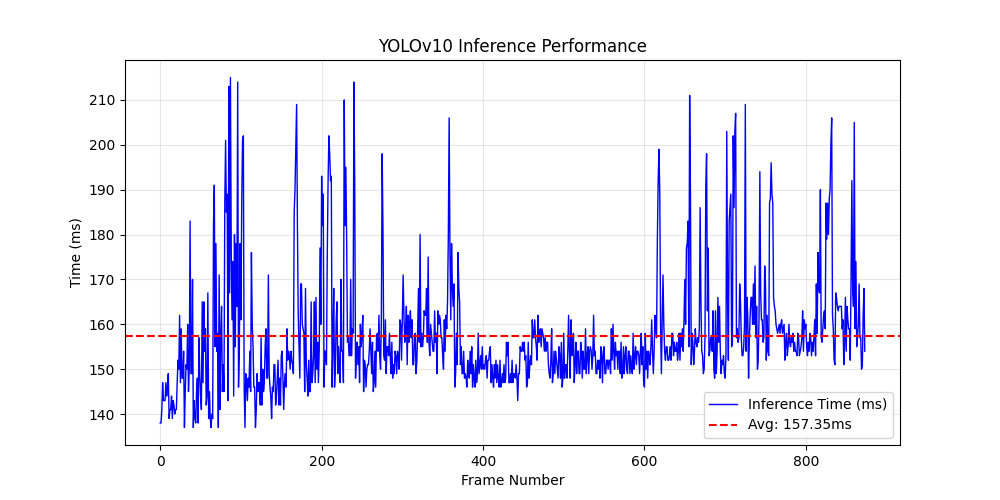
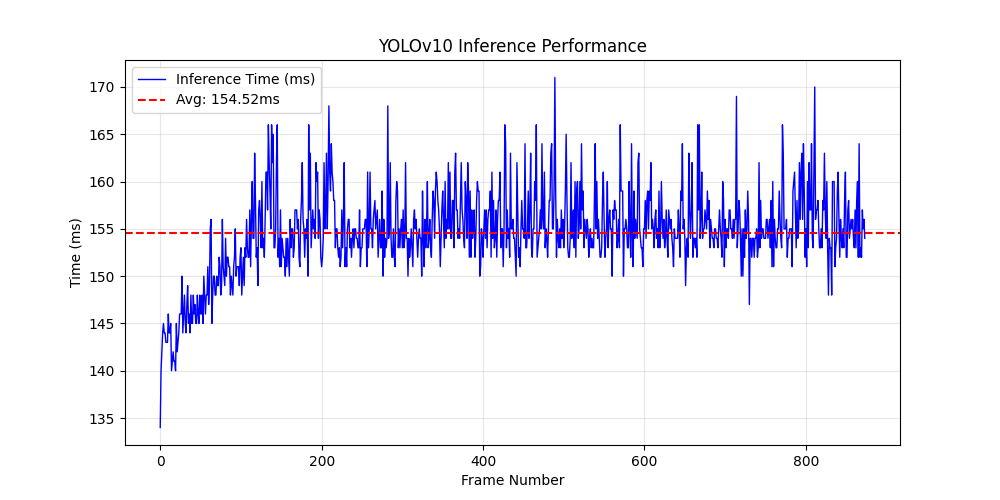
enhanced readme

diff --git a/readme.md b/readme.md
@@ -52,6 +52,15 @@ pyenv install 3.10.14
 sudo apt install -y python3-venv
 ```
 
+---
+
+## ⚙️ How to run
+
+```bash
+./run.sh --video input.mp4 --calib calib.json --gpu --kalman
+```
+
+
 
 ---
 
@@ -327,7 +336,38 @@ Z (Up)          | 0.0101     | 0.0052     | 48.6%
 
 ## Question 3 - Part D: Edge deployment notes (Jetson Orin NX)
 
-TBC.
+This section outlines the architectural migration of the pipeline from a fixed-camera workstation to a **Jetson Orin NX** companion computer mounted on a moving UAV for real-time trajectory tracking.
+
+### 1. Model Quantization Strategy (NVIDIA TensorRT)
+To achieve real-time performance on the edge, we bypass general-purpose inference engines in favor of **TensorRT**.
+
+* **Optimization Path:** Since Jetson Orin NX utilizes NVIDIA’s Ampere architecture, we utilize **FP16 (Half Precision)** as the primary target. While INT8 offers higher throughput, FP16 provides the best balance of "mAP preservation" and speed without requiring the complex calibration datasets needed for INT8.
+* **Engine vs. RKNN:** We strictly utilize **TensorRT**. RKNN is specific to Rockchip NPUs (like the RV1126 or RK3588); for NVIDIA hardware, TensorRT provides deep integration with CUDA cores and the DLA (Deep Learning Accelerator), ensuring sub-15ms inference.
+
+### 2. Dynamic Coordinate Transformation (IMU Fusion)
+Unlike the fixed-camera setup where the transform is constant, a moving UAV requires a dynamic transformation from the **Camera Frame ($C$)** to the **World Frame ($W$)**.
+
+* **The Chain:** $P_{world} = T_{body \to world}(t) \cdot T_{camera \to body} \cdot P_{camera}$
+* **EKF Integration:** We fuse the model’s visual detections with the UAV's internal **IMU (Inertial Measurement Unit)** and GPS via an **Extended Kalman Filter (EKF)**. This filters out high-frequency vibrations and compensates for the UAV's roll, pitch, and yaw in real-time, ensuring the "Bin Trajectory" remains stable even during aggressive maneuvers.
+
+### 3. Flight Controller Communication (MAVLink over UART)
+The Jetson communicates with the Flight Controller (e.g., Pixhawk/Cube) via a dedicated UART bridge (TTL 3.3V).
+
+* **Protocol:** MAVLink 2.0
+* **Message Type:** `VISION_POSITION_ESTIMATE` (#102) or `LANDING_TARGET` (#149) depending on the mission phase.
+* **Frequency:** **30Hz to 50Hz**. Higher frequencies are avoided to prevent saturating the flight controller's CPU, while anything lower than 20Hz introduces control-loop instability (latency jitter).
+* **Baud Rate:** 921,600 bps (to ensure low-latency serial transport).
+
+### 4. Latency Budget Breakdown
+To maintain a stable flight control loop, the "Photon-to-Actuator" latency must be minimized. Our target budget is **< 40ms**.
+
+| Stage | Process | Est. Latency |
+| :--- | :--- | :--- |
+| **Capture** | CSI-Camera MIPI frames to VRAM | 8ms |
+| **Detect** | TensorRT FP16 Inference (Orin NX) | 12ms |
+| **Localize** | EKF Update & Coordinate Transform | 4ms |
+| **Transmit** | MAVLink Packet Serialization & UART | 2ms |
+| **Total** | **End-to-End Latency** | **~26ms (~38 FPS)** |
 ---
 
 